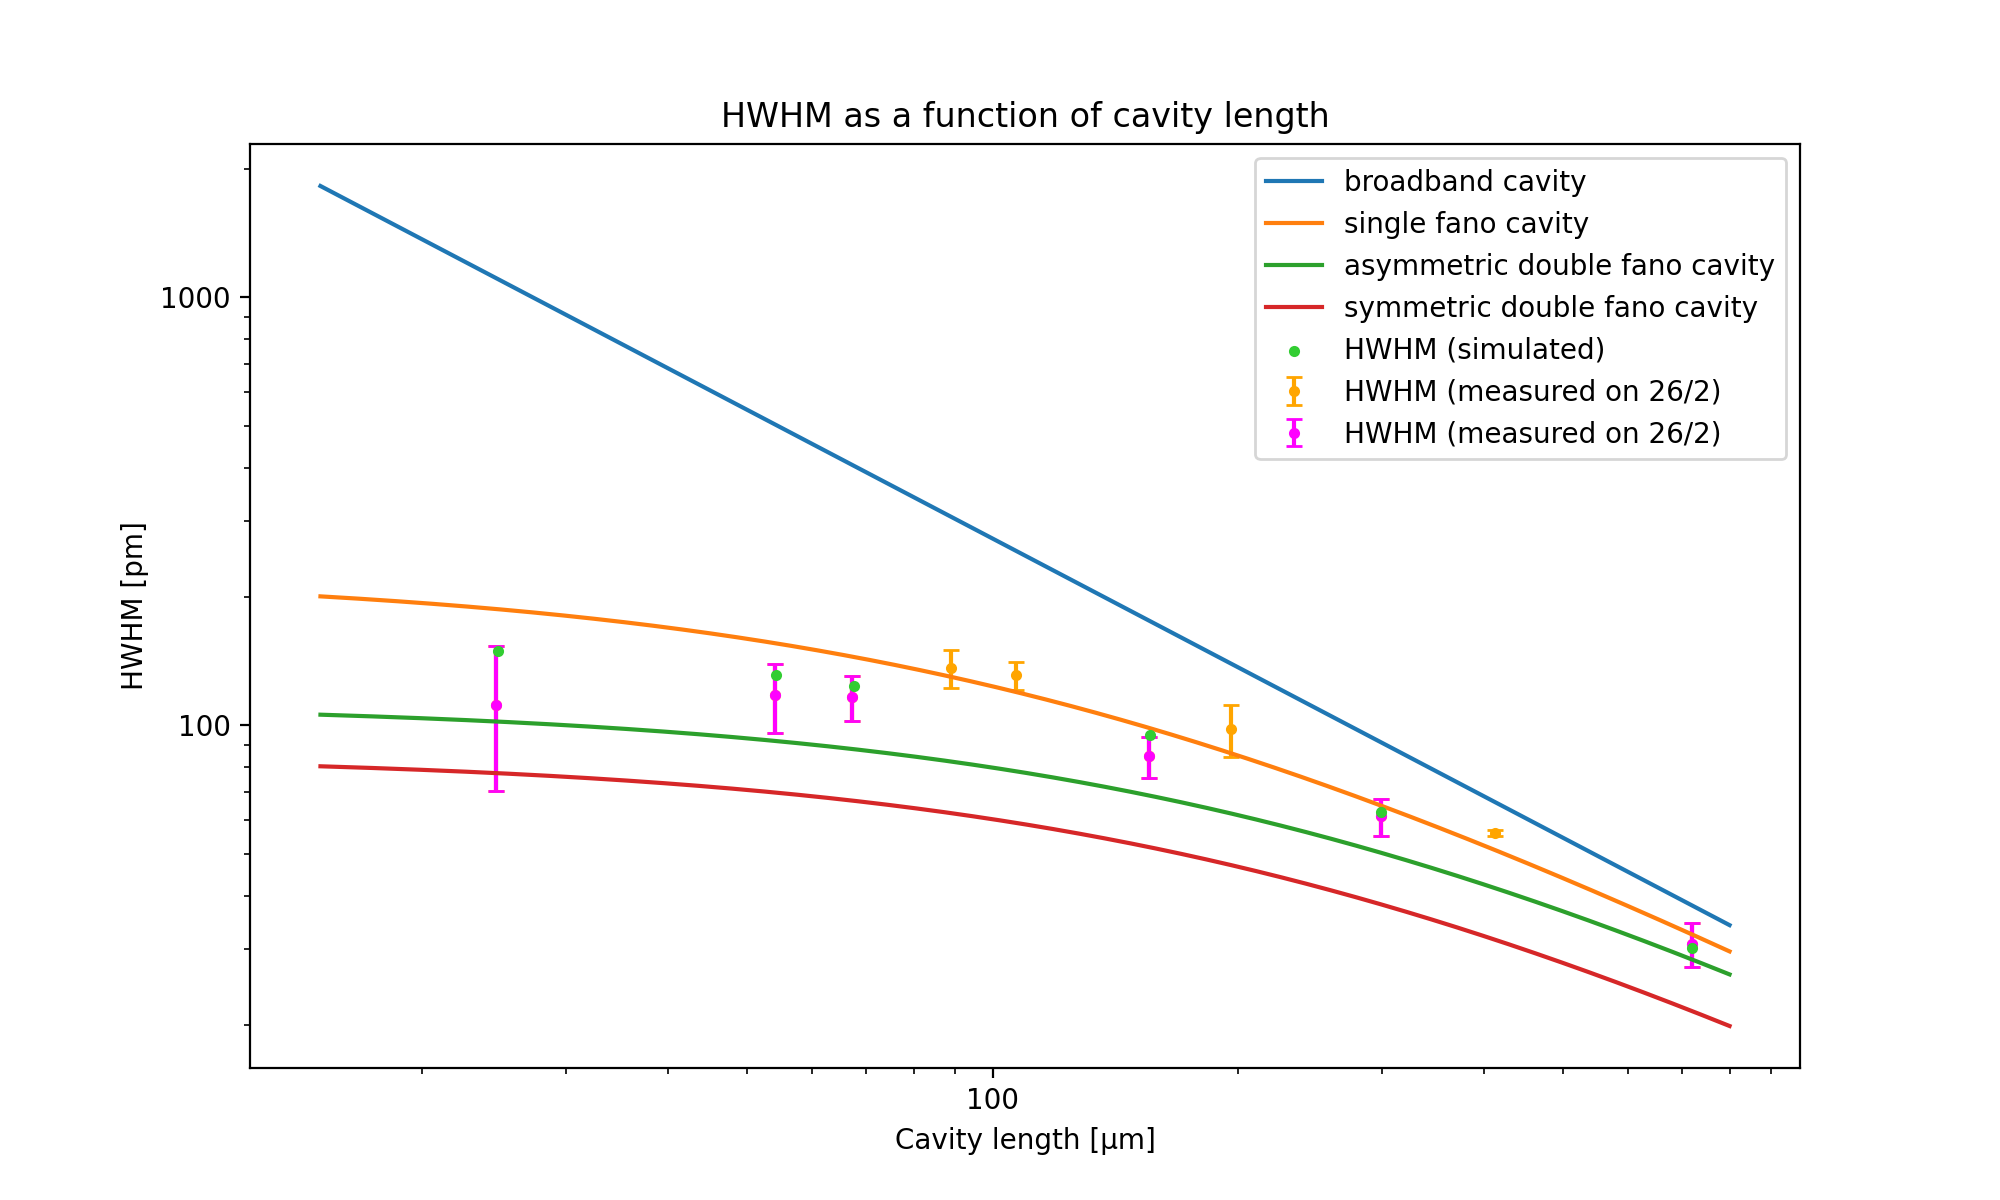
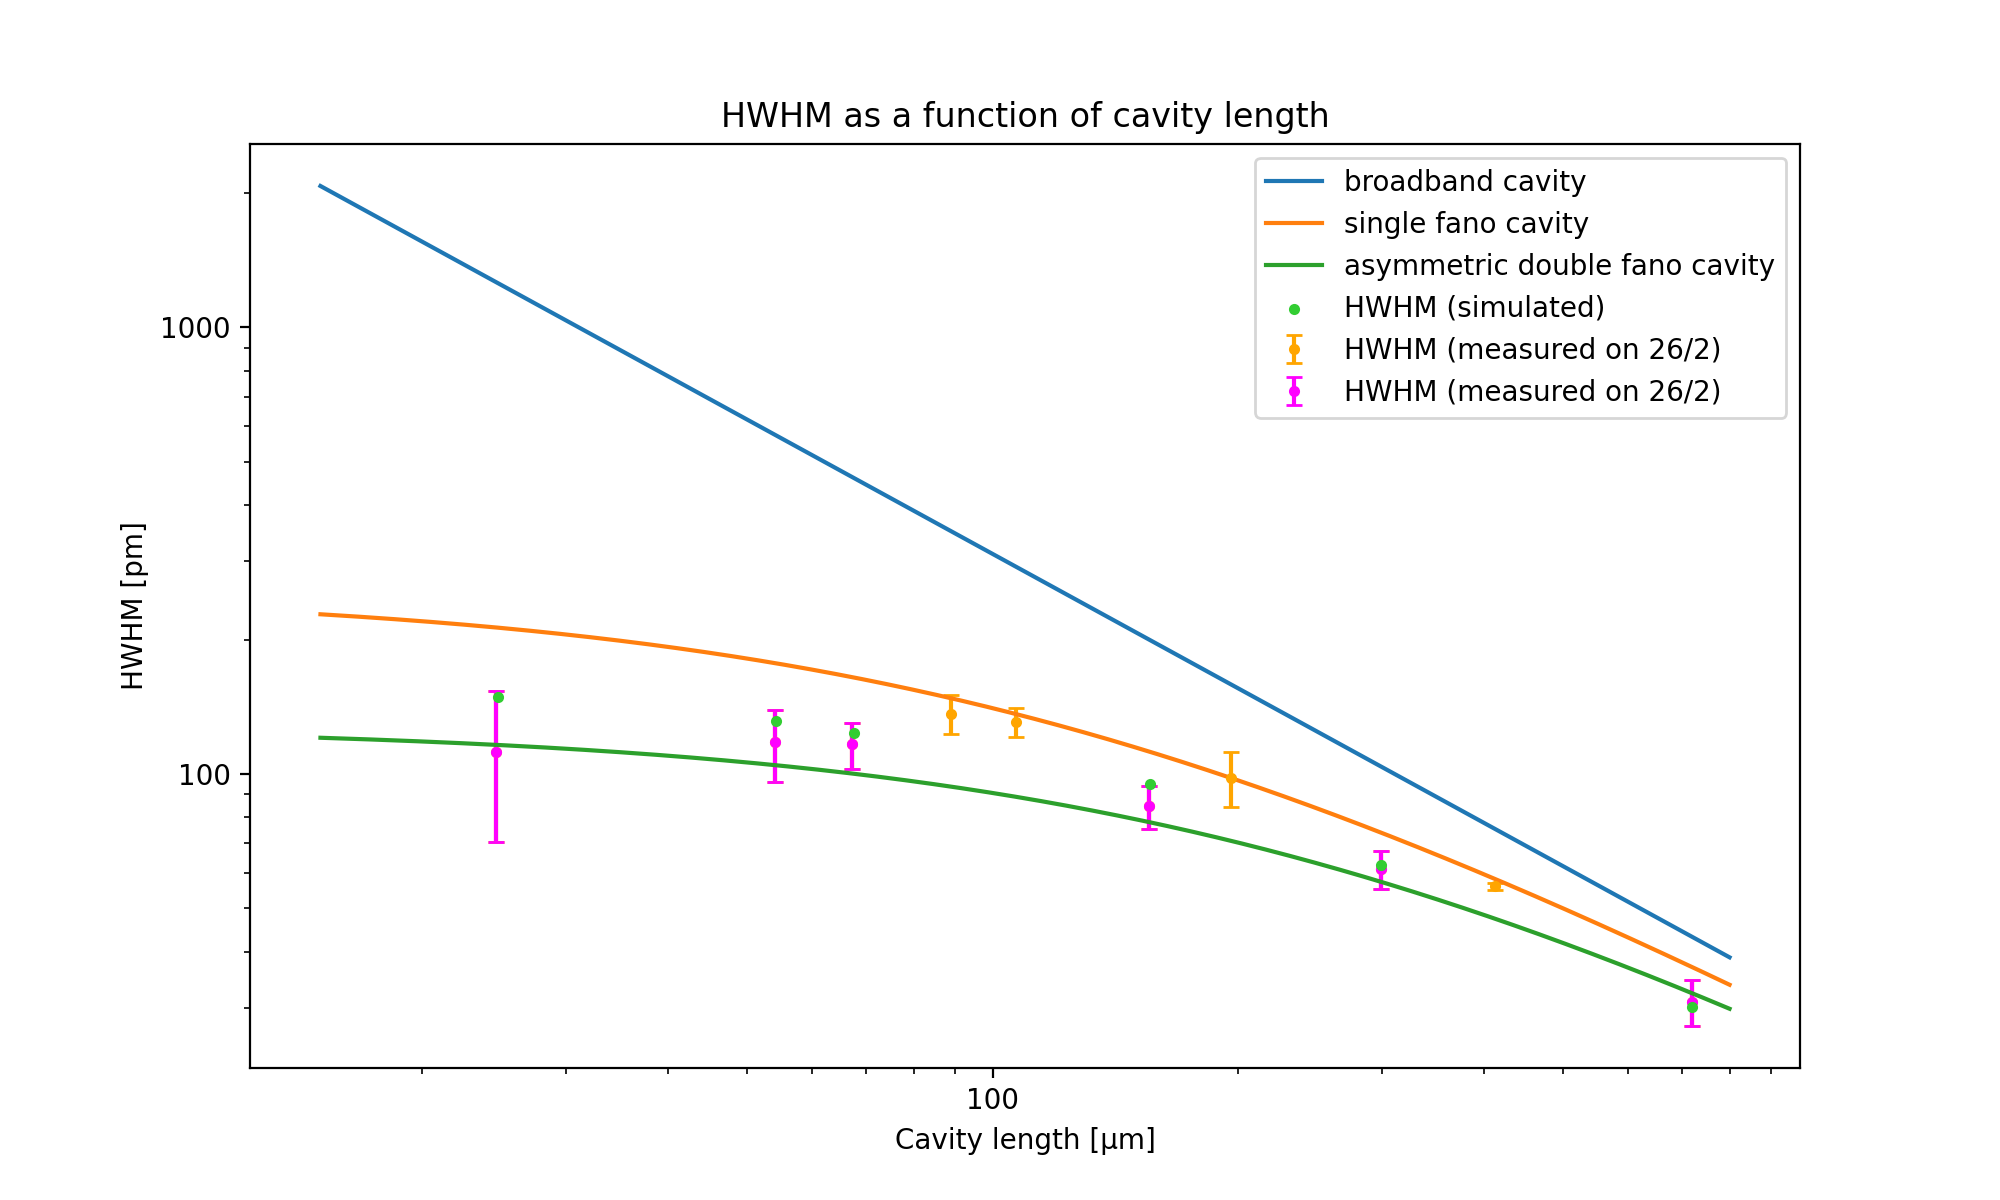
-

diff --git a/cavity_linewidth.py b/cavity_linewidth.py
@@ -113,7 +113,9 @@ print("tds: ", td_1, td_2)
 print("γs:  ", γ_1, γ_2)
 print("αs:  ", α_1, α_2)
 
-λt = np.array([951.750])
+λt = np.array([(λ0_1 + λ0_2)/2]) #955.572e-9
+
+#λt = np.array([951.650])
 
 t_M3_trans = model(λt, *params1)
 t_M5_trans = model(λt, *params2)
@@ -140,8 +142,8 @@ r_M5_trans = theoretical_reflection_values(params2, λt)[0][0]
 
 
 ## resonance wavelength [nm -> m]
-#λres = (λ0_1*1e-9 + λ0_2*1e-9)/2 #955.572e-9
-λres = 951.750e-9
+λres = (λ0_1*1e-9 + λ0_2*1e-9)/2 #955.572e-9
+#λres = 951.650e-9
 print("resonant wavelength: ", λres)
 ## length of cavity [μm -> m]
 l = np.linspace(15,800,10000)*1e-6
@@ -274,7 +276,7 @@ plt.errorbar(ls_0226_good*1e6, lws_0226_good*1e12, errs_0226_good*1e12, fmt=".",
 
 plt.plot(l*1e6,lw_fano(l,λres,Ls,γλ,rd,Tg,Tm)*1e12, label="single fano cavity")
 plt.plot(l*1e6,double_fano(l,λres,Ls,γλ,rd,Tg,Tm)*1e12, label= "asymmetric double fano cavity")
-plt.plot(l*1e6,double_fano(l,λres,Ls,γλ,rd,Tg,Tg)*1e12, label= "symmetric double fano cavity")
+#plt.plot(l*1e6,double_fano(l,λres,Ls,γλ,rd,Tg,Tg)*1e12, label= "symmetric double fano cavity")
 #plt.plot(l*1e6,double_fano(l,λres1,L1,γλ,rd,Tg1,Tm1)*1e12, label= "double fano cavity")
 #plt.plot(l*1e6,double_fano(l,λres2,L2,γλ,rd,Tg2,Tm2)*1e12, label = "double fano cavity (adjusted detuning)")
 #plt.plot(l*1e6,double_fano(l,λres3,L3,γλ,rd,Tg3,Tm3)*1e12, label = "double fano cavity (adjusted detuning)")
